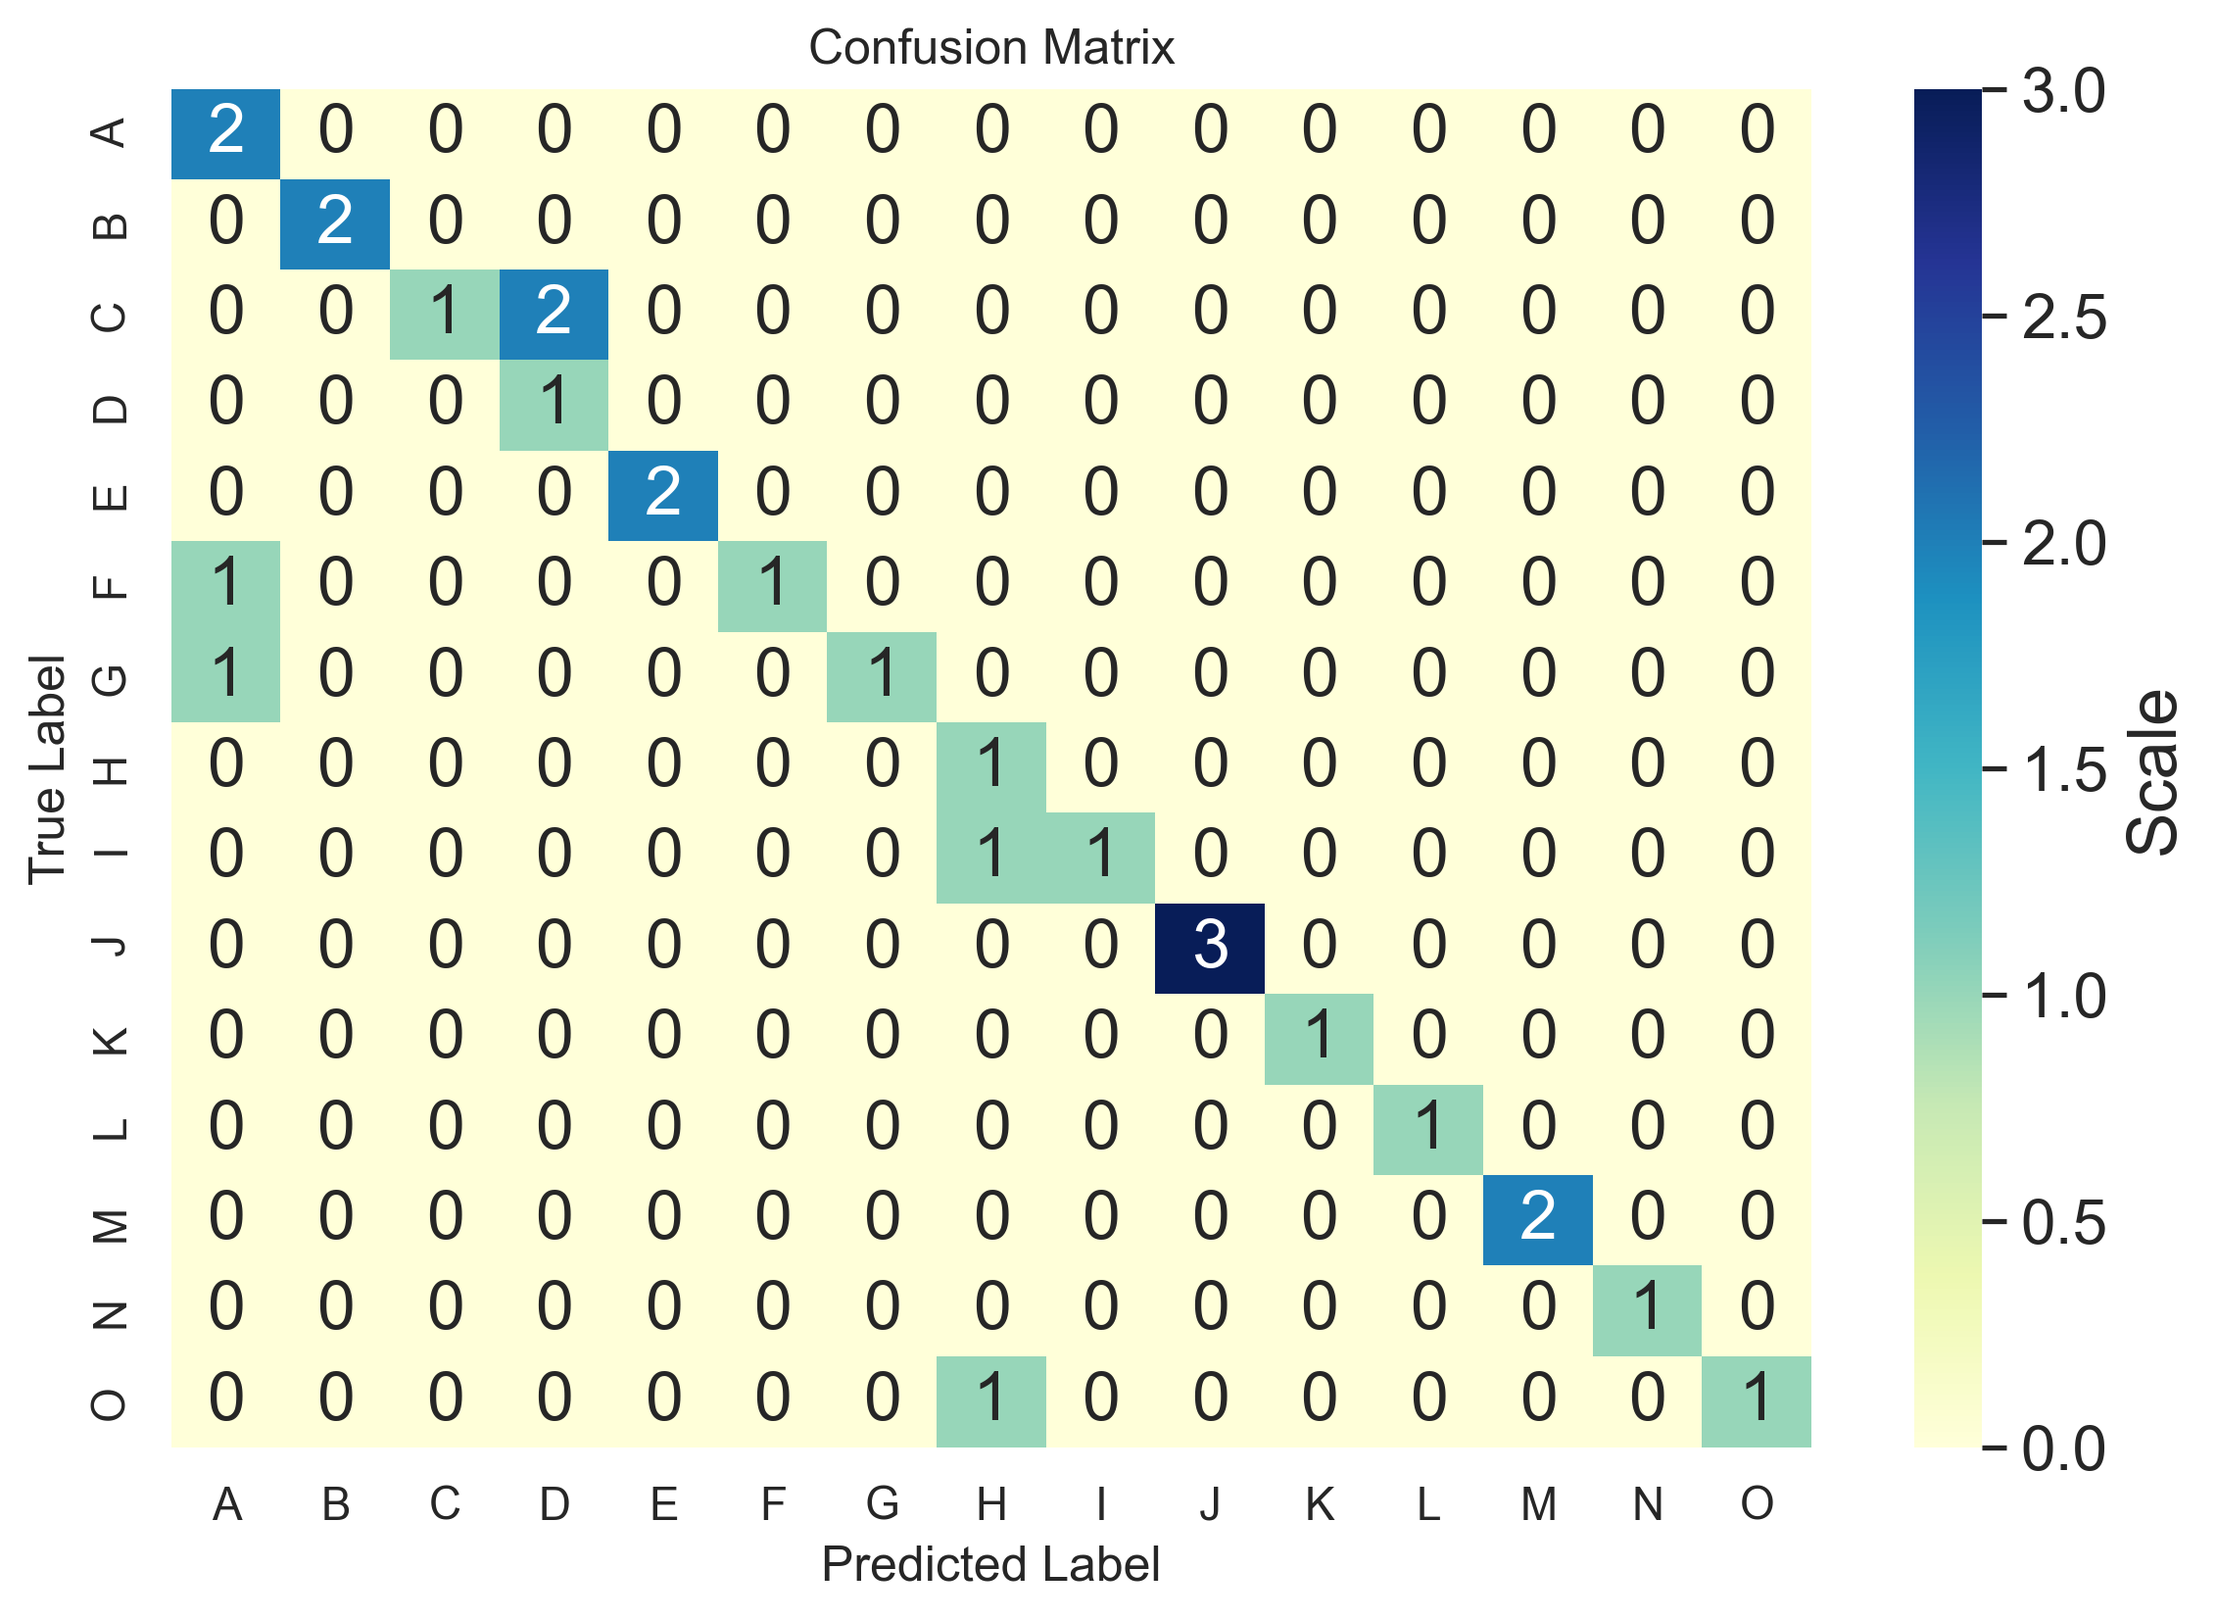
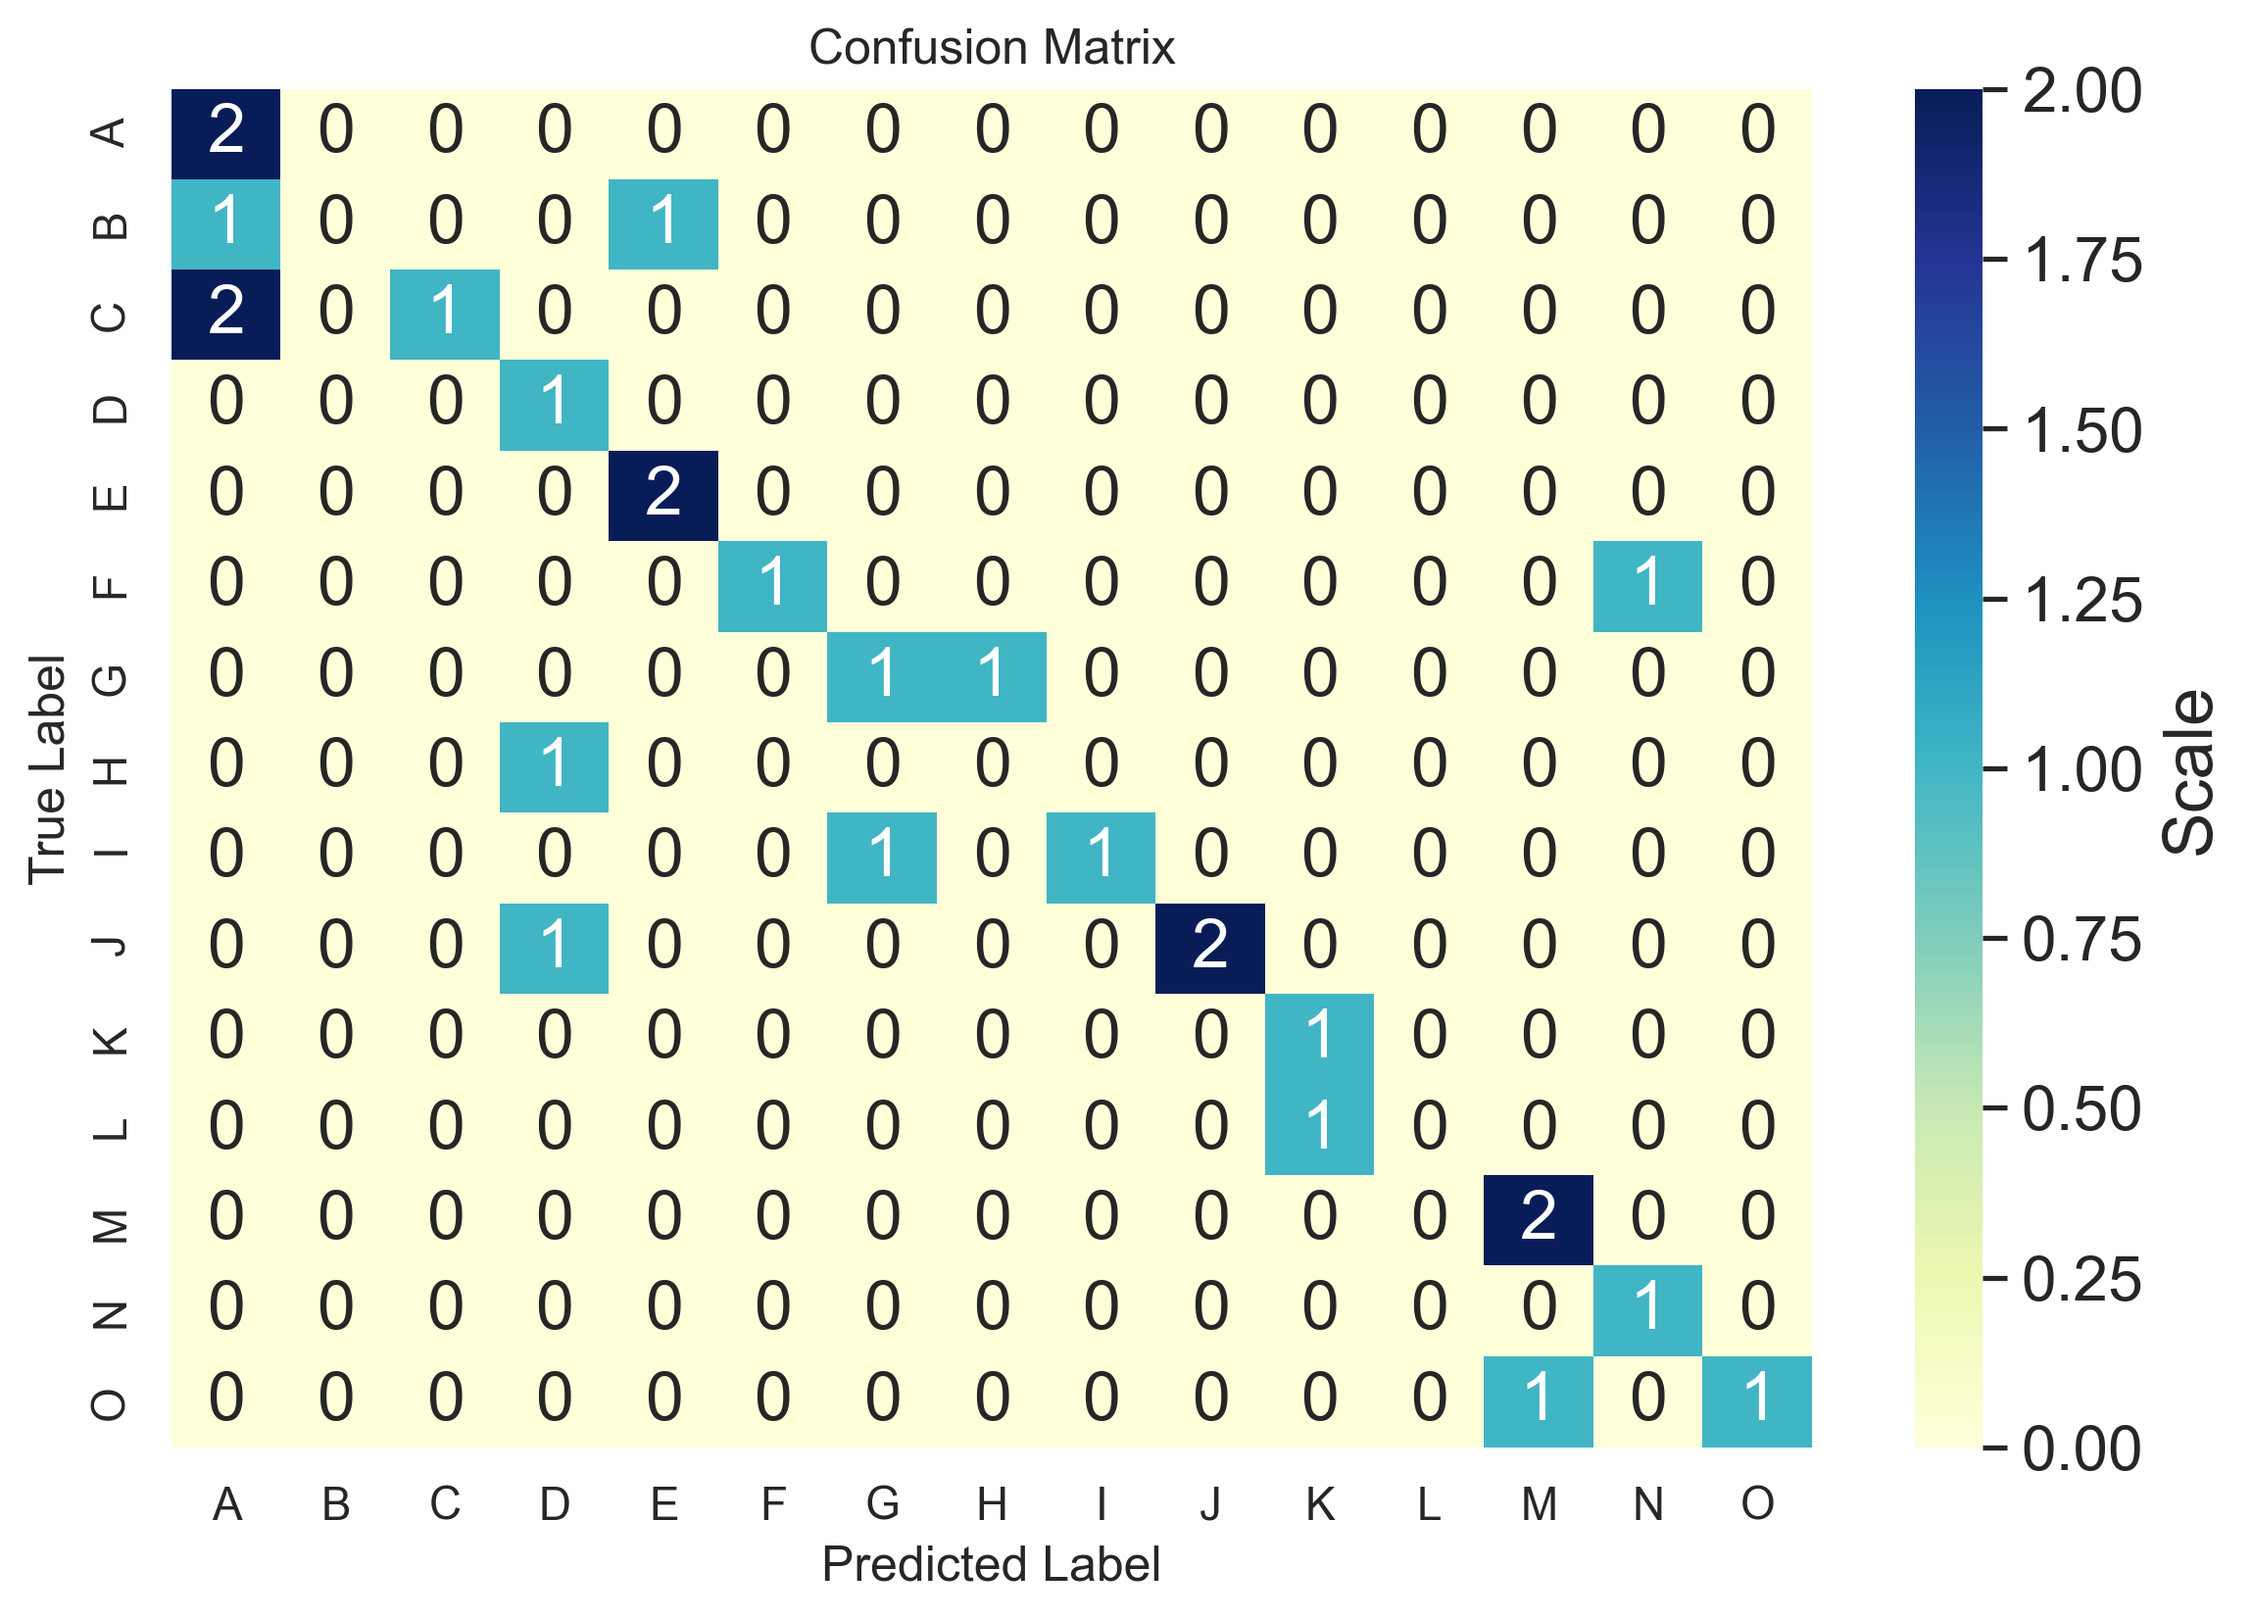
.

diff --git a/service/yalefaces/teste/matriz_confusao.py b/service/yalefaces/teste/matriz_confusao.py
@@ -37,7 +37,7 @@ def getImagemTesteComId():
                                                         scaleFactor=1.5,
                                                         minSize=(30, 30))
         for (x, y, l, a) in facesDetectadas:
-            idFaceDetectado, confianca = fisher.predict(imagemFace)
+            idFaceDetectado, confianca = lbph.predict(imagemFace)
             idAtual = int(os.path.split(caminhoImagem)[1].split(".")[0].replace("subject", ""))
 
             if idFaceDetectado == idAtual:
